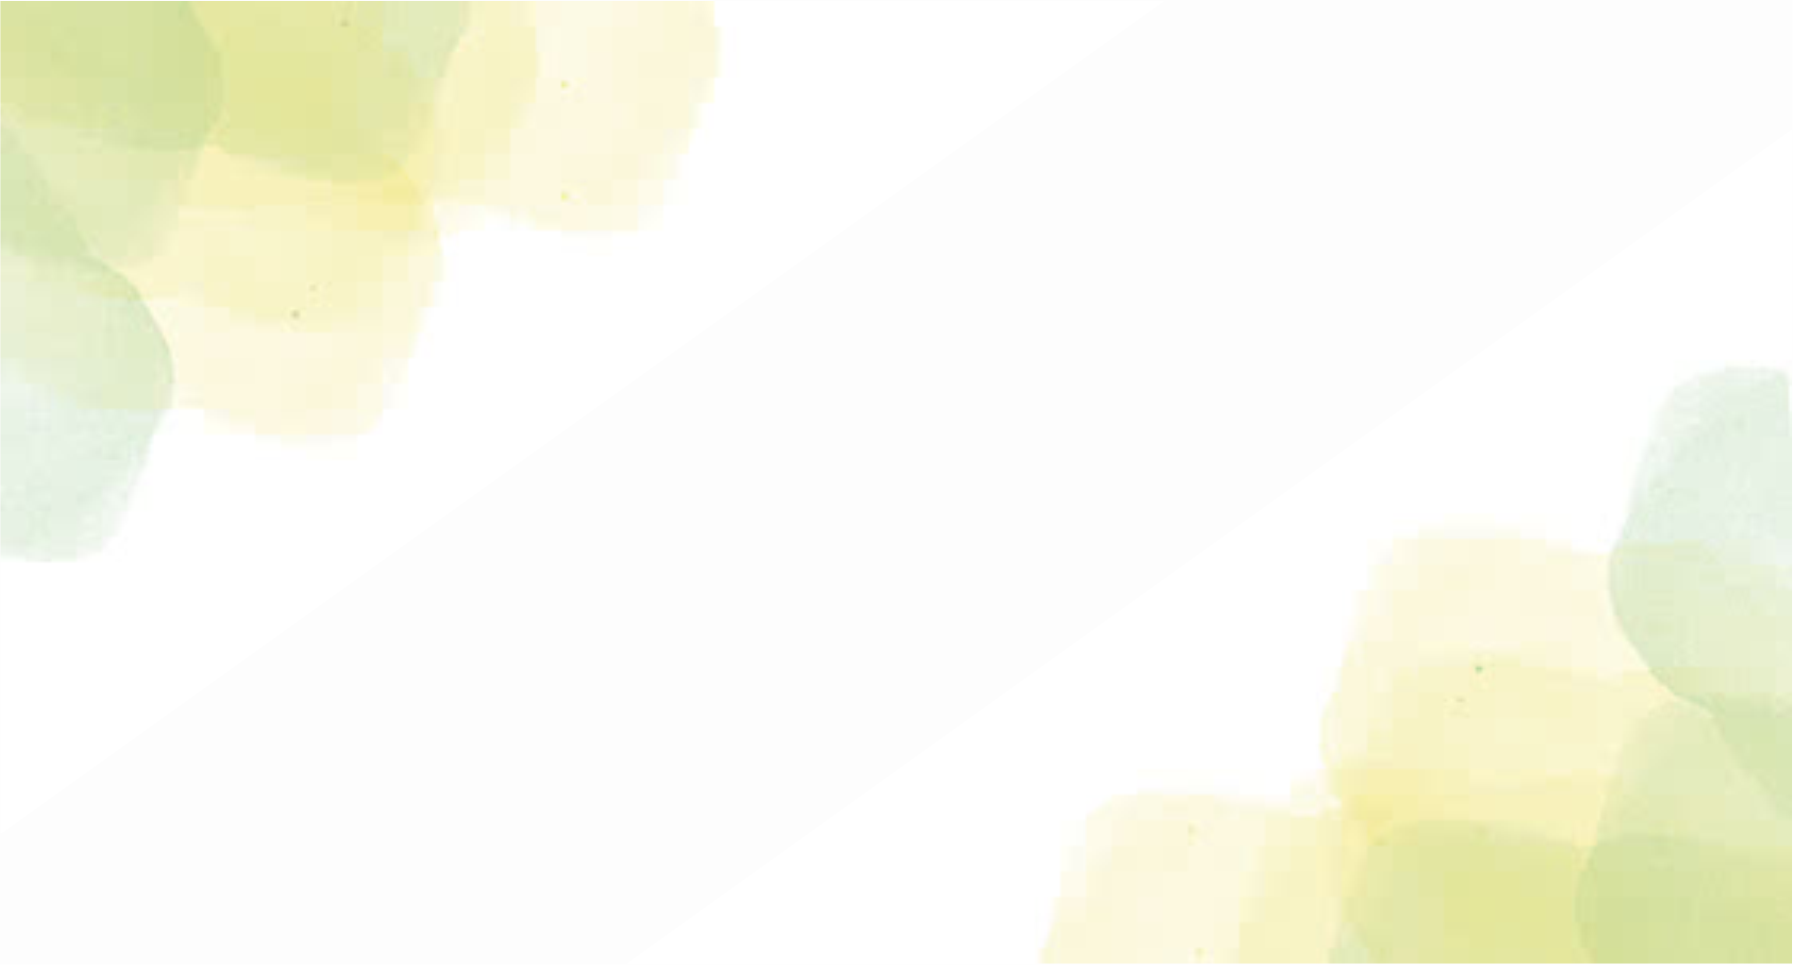
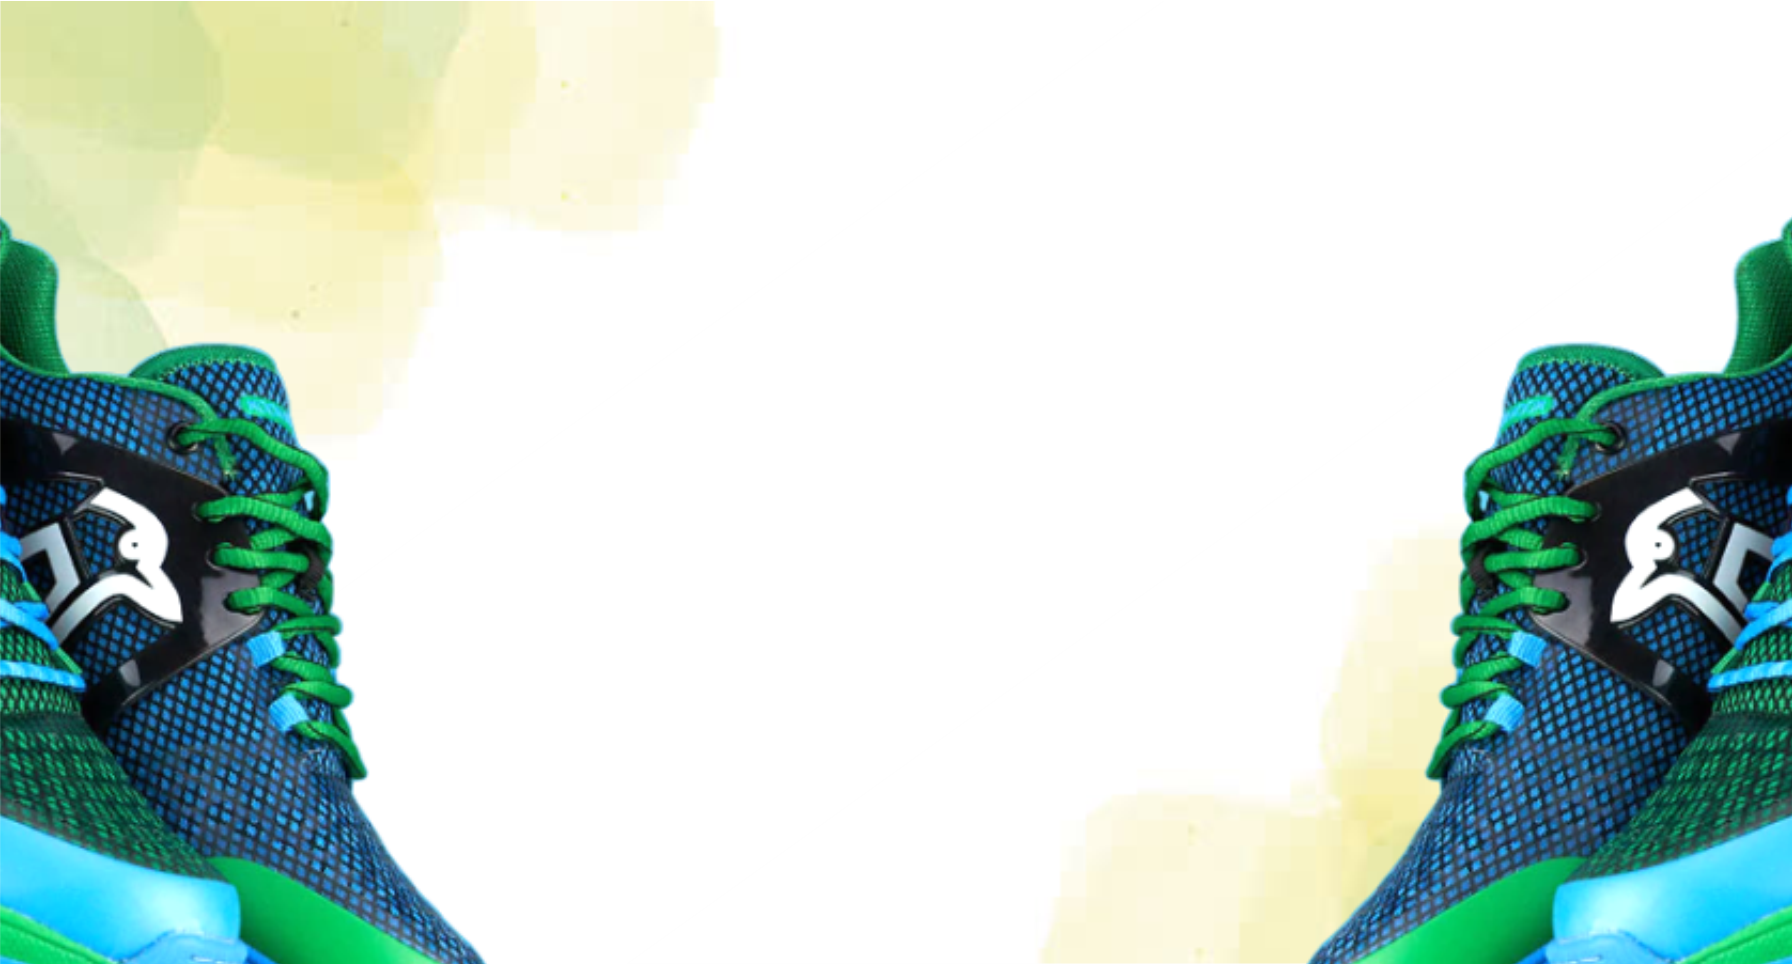
redesigned the product card component, changed hero section background, and adjusted the jumbotron component

Changed region(s): [[0.6875, 0.2178, 1.0, 1.0], [0.0, 0.2178, 0.2812, 1.0]]

diff --git a/client/src/components/ProductCard.jsx b/client/src/components/ProductCard.jsx
@@ -1,6 +1,6 @@
-import React, { useContext } from "react";
-import { useNavigate } from "react-router-dom";
 import PropTypes from "prop-types";
+import { useContext } from "react";
+import { useNavigate } from "react-router-dom";
 import { AppContent } from "../context/AppContent";
 
 const ProductCard = ({ product }) => {
@@ -12,7 +12,7 @@ const ProductCard = ({ product }) => {
     navigate(`/product/${product._id}`);
   };
 
-  const hasDiscountPrice = product.discount;
+  const hasDiscountPrice = product.discount > 0;
   const discountPrice = (
     product.price -
     (product.price * product.discount) / 100
@@ -23,9 +23,15 @@ const ProductCard = ({ product }) => {
   return (
     <div
       id={product._id}
-      className="p-2 border border-gray-200 bg-white rounded-lg shadow-sm flex flex-col items-center text-center hover:shadow-lg hover:scale-105 transition-all duration-300 cursor-pointer overflow-hidden"
+      className="p-2 border border-gray-200 rounded-lg flex flex-col hover:bg-white hover:shadow-sm transition-all duration-300 cursor-pointer overflow-hidden relative"
       onClick={setProductIdUrl}
     >
+      {hasDiscountPrice && (
+        <b className="text-sm text-white bg-red-500 absolute top-6 right-4 p-1">
+          {product.discount}% off
+        </b>
+      )}
+
       <div
         className={`product_img ${loading ? "bg-gray-200" : "bg-white"} h-50 my-4 flex flex-col overflow-hidden`}
       >
@@ -35,15 +41,12 @@ const ProductCard = ({ product }) => {
           className="h-full object-cover"
         />
       </div>
-      <p className="lg:text-xl! sm:text-sm! mb-2 hover:text-green-700">
-        {product.name.length > 10
-          ? `${product.name.slice(0, 10)}...`
-          : product.name}
-      </p>
       {hasDiscountPrice ? (
-        <div className="price flex flex-wrap gap-2 items-center mb-4">
-          <span className="discount_price text-red-600">${discountPrice}</span>
-          <span className="original_price text-gray-600 line-through!">
+        <div className="price flex flex-wrap gap-2 items-center mb-2">
+          <span className="discount_price text-red-600 font-bold!">
+            ${discountPrice}
+          </span>
+          <span className="original_price text-gray-600 line-through! font-bold!">
             $
             {product.price.toLocaleString(undefined, {
               minimumFractionDigits: 2,
@@ -52,7 +55,7 @@ const ProductCard = ({ product }) => {
           </span>
         </div>
       ) : (
-        <p className="price text-gray-800 mb-4">
+        <p className="price text-gray-800 mb-2 font-bold!">
           $
           {product.price.toLocaleString(undefined, {
             minimumFractionDigits: 2,
@@ -60,6 +63,16 @@ const ProductCard = ({ product }) => {
           })}
         </p>
       )}
+      <p className="font-bold hover:text-green-700">
+        {product.name.length > 15
+          ? `${product.name.slice(0, 15)}...`
+          : product.name}
+      </p>
+      <p className="mb-2 text-xs!">
+        {product.description.length > 30
+          ? `${product.description.slice(0, 30)}...`
+          : product.description}
+      </p>
     </div>
   );
 };

diff --git a/client/src/pages/Shop.jsx b/client/src/pages/Shop.jsx
@@ -1,4 +1,3 @@
-
 import axios from "axios";
 import { Filter, X } from "lucide-react";
 import PropTypes from "prop-types";
@@ -17,14 +16,15 @@ const Shop = () => {
   const [selectedPriceRange, setSelectedPriceRange] = useState("");
   const [sortBy, setSortBy] = useState("Default Sorting");
   const [currentPage, setCurrentPage] = useState(1);
-  
+
   // New States required for Server Side rendering
   const [products, setProducts] = useState([]);
   const [totalPages, setTotalPages] = useState(1);
   const [loading, setLoading] = useState(false);
 
   // --- LOGIC: DATA ---
-  const { backendUrl, allCategories, setAllCategories } = useContext(AppContent);
+  const { backendUrl, allCategories, setAllCategories } =
+    useContext(AppContent);
 
   // --- LOGIC: SERVER-SIDE FETCHING ---
   useEffect(() => {
@@ -53,7 +53,7 @@ const Shop = () => {
         // Note: Sort handling can be sent to backend or done on the sliced array.
         // For security fallback against large sets, we execute retrieval:
         const response = await axios.get(url);
-        
+
         if (response.data.success) {
           let fetchedItems = response.data.data;
 
@@ -100,6 +100,7 @@ const Shop = () => {
           />
           <div
             className={`absolute left-0 top-0 h-full w-80 bg-white p-6 transition-transform duration-300 ${isFilterOpen ? "translate-x-0" : "-translate-x-full"}`}
+            onClick={() => setIsFilterOpen(false)}
           >
             <div className="flex justify-between items-center mb-8">
               <p className="text-lg! font-medium! text-gray-700 mb-6">
@@ -118,10 +119,10 @@ const Shop = () => {
           </div>
         </div>
 
-        <div className="max-w-360 mx-auto p-2 sm:px-6 lg:px-8 py-8">
-          <div className="flex flex-col lg:flex-row gap-8">
+        <div className="mx-auto p-2 sm:px-6 lg:px-8 py-8">
+          <div className="flex flex-col lg:flex-row gap-4">
             {/* --- DESKTOP SIDEBAR --- */}
-            <aside className="hidden lg:block w-64 shrink-0">
+            <aside className="hidden lg:block w-50 shrink-0">
               <p className="text-lg! font-medium! text-gray-700 mb-6">
                 Filters
               </p>
@@ -171,7 +172,7 @@ const Shop = () => {
                 </div>
               ) : products.length > 0 ? (
                 <>
-                  <div className="grid lg:grid-cols-3 md:grid-cols-3 grid-cols-2 sm:gap-2 lg:gap-6">
+                  <div className="grid lg:grid-cols-3 md:grid-cols-3 grid-cols-2 sm:gap-2 lg:gap-4">
                     {products.map((product) => (
                       <ProductCard key={product._id} product={product} />
                     ))}

diff --git a/client/src/components/Hero.jsx b/client/src/components/Hero.jsx
@@ -1,10 +1,8 @@
-import React from "react";
-import { assets } from "../assets/asset";
-import { NavLink } from "react-router-dom";
-import Navbar from "./Navbar";
 import { motion } from "framer-motion";
 import { useContext } from "react";
+import { NavLink } from "react-router-dom";
 import { AppContent } from "../context/AppContent";
+import Navbar from "./Navbar";
 
 export const Hero = () => {
   // Ultra-snappy spring for that premium "mechanical" feel
@@ -18,15 +16,6 @@ export const Hero = () => {
       {/* Background Decorative Text - Large and Faint */}
       {!loading && (
         <>
-          <motion.div
-            initial={{ x: -200, opacity: 0 }}
-            animate={{ x: 0, opacity: 0.08 }}
-            transition={{ duration: 2, ease: "easeOut" }}
-            className="absolute inset-0 flex items-center justify-center select-none pointer-events-none"
-          >
-            <h1 className="text-[25vw]! font-black italic">X-SERIES</h1>
-          </motion.div>
-
           <div className="container relative z-10 grid h-full lg:grid grid-cols-1 items-center sm:block sm:pt-8 md:grid place-items-center pb-6">
             {/* TEXT CONTENT */}
             <div className="text-center grid place-items-center mb-10 text-gray-800">
@@ -88,7 +77,7 @@ export const Hero = () => {
             </div>
 
             {/* THE HERO IMAGE - Dynamic Tilt & Entrance */}
-            <motion.div
+            {/* <motion.div
               className="relative group"
               initial={{ opacity: 0, x: 100, rotate: 15 }}
               animate={{ opacity: 1, x: 0, rotate: -5 }}
@@ -98,7 +87,6 @@ export const Hero = () => {
                 <motion.img
                   src={assets.xpro_1}
                   alt="XPro 1"
-                  /* Subtle floating while hovering only */
                   whileHover={{
                     scale: 1.05,
                     rotate: 0,
@@ -108,13 +96,12 @@ export const Hero = () => {
                 />
               )}
 
-              {/* Animated Background Glow */}
               <motion.div
                 animate={{ scale: [1, 1.2, 1], opacity: [0.5, 0.8, 0.5] }}
                 transition={{ duration: 4, repeat: Infinity }}
                 className="absolute -inset-10 bg-orange-100 rounded-full blur-[100px] -z-10"
               />
-            </motion.div>
+            </motion.div> */}
           </div>
         </>
       )}

diff --git a/client/src/assets/asset.js b/client/src/assets/asset.js
@@ -1,16 +1,16 @@
+import hero_bg from "./images/hero_bg.png";
 import logo from "./images/logo.png";
 import logo_white from "./images/logo_white.png";
-import hero_bg from "./images/hero_bg.png";
 import xpro_1 from "./images/xpro_1.png";
-import xpro_1plus from "./images/xpro_1plus.png";
+// import xpro_1plus from "./images/xpro_1plus.png";
 import feature_icon1 from "./images/icons/feature-icon1.png";
 import feature_icon2 from "./images/icons/feature-icon2.png";
 import feature_icon3 from "./images/icons/feature-icon3.png";
 import feature_icon4 from "./images/icons/feature-icon4.png";
+import running_shoe1 from "./images/running_shoe1.png";
 import season_sale_img1 from "./images/season-sale-img1.png";
 import season_sale_img2 from "./images/season-sale-img2.png";
 import season_sale_img3 from "./images/season-sale-img3.png";
-import running_shoe1 from "./images/running_shoe1.png";
 
 import product_img1 from "./images/product_img/product-img1.jpg";
 import product_img2 from "./images/product_img/product-img2.jpg";
@@ -38,7 +38,7 @@ const assets = {
   logo_white,
   hero_bg,
   xpro_1,
-  xpro_1plus,
+  // xpro_1plus,
   running_shoe1,
   feature_icon1,
   feature_icon2,
@@ -284,12 +284,12 @@ const footerLinks = [
 
 export {
   assets,
-  navLinks,
-  userNavLinks,
-  features,
+  brands,
   category,
+  features,
+  footerLinks,
+  navLinks,
   productCard,
   reviews,
-  brands,
-  footerLinks,
+  userNavLinks,
 };

diff --git a/client/src/context/AppContent.jsx b/client/src/context/AppContent.jsx
@@ -11,7 +11,7 @@ export const AppContent = createContext();
 export const AppContextProvider = (props) => {
   // const backendUrl =
   //   import.meta.env.VITE_BACKEND_URL_NETWORK || "http://localhost:4000/api";
-  const backendUrl ="http://localhost:4000/api";
+  const backendUrl = "http://localhost:4000/api";
   const [isOpen, setIsOpen] = useState(true);
   const [isLoggedIn, setIsLoggedIn] = useState(false);
   const [userData, setUserData] = useState(null);
@@ -89,11 +89,11 @@ export const AppContextProvider = (props) => {
         // Run requests in parallel to speed up home screen loading times!
         const [newArrivalsRes, bestSellersRes] = await Promise.all([
           axios.get(`${backendUrl}/me/shuz/products?type=new-arrivals`),
-          axios.get(`${backendUrl}/me/shuz/products?type=best-sellers`)
+          axios.get(`${backendUrl}/me/shuz/products?type=best-sellers`),
         ]);
 
-        setNewProducts(newArrivalsRes.data.data);          // Array of exactly 4 items
-        setBestSellerProducts(bestSellersRes.data.data);  // Array of exactly 4 items
+        setNewProducts(newArrivalsRes.data.data); // Array of exactly 4 items
+        setBestSellerProducts(bestSellersRes.data.data); // Array of exactly 4 items
       } catch (error) {
         console.error("Error fetching homepage sections:", error);
       } finally {

diff --git a/client/src/components/Jumbotron.jsx b/client/src/components/Jumbotron.jsx
@@ -1,13 +1,13 @@
-import React from "react";
 import PropTypes from "prop-types";
 import Navbar from "./Navbar";
 
 const Jumbotron = ({ text }) => {
   return (
-    <header className="shop_hero">
+    <header className="jumbotron {
+">
       <Navbar />
       <div className="container">
-        <h1 className="mt-16 text-center">{text}</h1>
+        <h1 className="text-center">{text}</h1>
       </div>
     </header>
   );

diff --git a/client/src/index.css b/client/src/index.css
@@ -185,7 +185,7 @@ button {
   z-index: 200;
 }
 
-.shop_hero {
+.jumbotron {
   height: 55vh;
   background: url("./assets/images/shop_default_header_img.jpg");
   background-size: cover;
